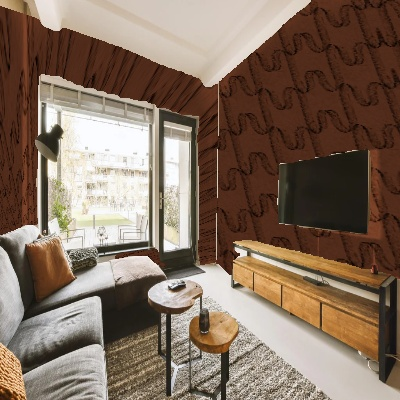
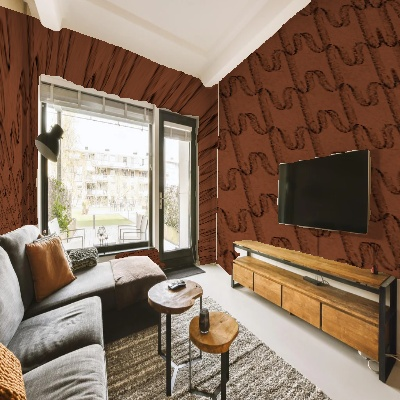
fix: fixed the test_shadow_overlay script and the documentation about the mistaken assumption of irradiance values. High signifies shadows and not bright spots.

Changed region(s): [[0.48, 0.03, 1.0, 0.69], [0.0, 0.03, 0.48, 0.6]]

diff --git a/workflow-v3-research-driven/experiments/shadow-overlay-test/test_shadow_overlay.py b/workflow-v3-research-driven/experiments/shadow-overlay-test/test_shadow_overlay.py
@@ -5,6 +5,9 @@ Shadow Overlay Experiment - V3 Pipeline Enhancement
 Tests shadow overlay on ST-RoomNet V3 wallpaper output using pre-computed
 RGB→X irradiance shadow maps. Compares wallpaper with and without shadows.
 
+CORRECTED: Fixed inverted shadow application where the EXR irradiance file
+has HIGH values for shadows (not bright areas as originally assumed).
+
 Following pattern from: experiments/v2-baseline-analysis/run_v2_baseline.py
 Research doc: research/04-shadow-overlay-integration-research.md
 Planning doc: planning/shadow-overlay-experiment-plan.md
@@ -95,14 +98,23 @@ def apply_shadow_to_wall(wallpaper_rgb, shadow_exr, wall_mask, ambient_clamp=0.4
     """
     Apply shadow to wallpaper for a single wall using linear RGB multiplication.
 
-    Implements 5-step shadow extraction strategy from:
-    research/04-shadow-overlay-integration-research.md (Shadow Extraction Strategy)
+    IMPORTANT: This implementation corrects for INVERTED irradiance values where:
+    - High EXR values represent DARK shadows (should darken wallpaper)
+    - Low EXR values represent BRIGHT areas (should keep wallpaper bright)
+
+    Implements corrected 6-step shadow extraction strategy:
+    1. Isolate wall region
+    2. Establish min/max irradiance range for normalization
+    3. Normalize to 0-1 (0=bright, 1=dark)
+    4. INVERT to create shadow multiplier (1=no darkening, low=darken)
+    5. Clamp to preserve ambient light
+    6. Multiply in linear RGB space
 
     Args:
         wallpaper_rgb: Wallpaper image (H, W, 3) uint8 in sRGB space
-        shadow_exr: Shadow map (H, W, 3) float32 in linear space
+        shadow_exr: Shadow map (H, W, 3) float32 - HIGH values = shadows
         wall_mask: Boolean mask (H, W) defining wall region
-        ambient_clamp: Minimum shadow value (default 0.4 for ambient light)
+        ambient_clamp: Minimum shadow multiplier (default 0.4 for ambient light)
 
     Returns:
         np.ndarray: Shadowed wallpaper (H, W, 3) uint8 in sRGB space
@@ -112,34 +124,41 @@ def apply_shadow_to_wall(wallpaper_rgb, shadow_exr, wall_mask, ambient_clamp=0.4
         print("    Warning: Empty wall mask, skipping shadow application")
         return wallpaper_rgb
 
-    # Step 2: Establish baseline brightness (98th percentile of wall pixels)
-    # Extract wall shadow values (average across RGB channels for brightness)
+    # Step 2: Establish value range for normalization
+    # IMPORTANT: EXR irradiance has INVERTED relationship:
+    # - High EXR values = darkest shadows (should darken wallpaper)
+    # - Low EXR values = brightest areas (should keep wallpaper bright)
     wall_shadow_pixels = shadow_exr[wall_mask].mean(axis=1)  # Average RGB per pixel
-    baseline = np.percentile(wall_shadow_pixels, 98)
+    min_val = np.percentile(wall_shadow_pixels, 2)   # Brightest areas (low irradiance values)
+    max_val = np.percentile(wall_shadow_pixels, 98)  # Darkest shadows (high irradiance values)
 
-    print(f"    Baseline brightness: {baseline:.3f} (98th percentile)")
+    print(f"    Irradiance range: min={min_val:.3f} (bright), max={max_val:.3f} (shadow)")
 
-    # Handle edge case: completely dark wall
-    if baseline < 1e-6:
-        print(f"    Warning: Baseline too low ({baseline:.3e}), using fallback value 0.1")
-        baseline = 0.1
+    # Handle edge case: no variation in shadow
+    if max_val - min_val < 1e-6:
+        print(f"    Warning: No shadow variation detected, skipping shadow application")
+        return wallpaper_rgb
 
-    # Step 3: Create relative shadow mask (normalize by baseline)
-    # Work with grayscale shadow for simpler normalization
+    # Step 3: Normalize to 0-1 range where 0=bright, 1=dark
     shadow_gray = shadow_exr.mean(axis=2)  # Convert to grayscale
-    normalized_shadow = shadow_gray / baseline
+    normalized = (shadow_gray - min_val) / (max_val - min_val)
+    normalized = np.clip(normalized, 0.0, 1.0)
 
-    # Step 4: Clamp to preserve ambient light
-    normalized_shadow = np.clip(normalized_shadow, ambient_clamp, 1.0)
+    # Step 4: INVERT so that high irradiance (shadows) → low multiplier (darken)
+    # and low irradiance (bright) → high multiplier (stay bright)
+    shadow_multiplier = 1.0 - normalized
 
-    print(f"    Normalized shadow range: [{normalized_shadow.min():.3f}, {normalized_shadow.max():.3f}]")
+    # Step 5: Clamp to preserve ambient light (don't go below ambient_clamp)
+    shadow_multiplier = np.clip(shadow_multiplier, ambient_clamp, 1.0)
 
-    # Step 5: Apply to wallpaper (multiply in linear space)
+    print(f"    Shadow multiplier range: [{shadow_multiplier.min():.3f}, {shadow_multiplier.max():.3f}]")
+
+    # Step 6: Apply to wallpaper (multiply in linear space)
     # Convert wallpaper from sRGB to linear
     wallpaper_linear = (wallpaper_rgb.astype(np.float32) / 255.0) ** 2.2
 
     # Apply shadow (broadcast grayscale shadow to RGB)
-    shadow_3ch = normalized_shadow[:, :, np.newaxis]  # (H, W, 1)
+    shadow_3ch = shadow_multiplier[:, :, np.newaxis]  # (H, W, 1)
     shadowed_linear = wallpaper_linear * shadow_3ch
 
     # Convert back to sRGB

diff --git a/workflow-v3-research-driven/research/04-shadow-overlay-integration-research.md b/workflow-v3-research-driven/research/04-shadow-overlay-integration-research.md
@@ -85,38 +85,50 @@ Create an experimental script to test if RGB→X model's irradiance shadow maps 
 
 ### Shadow Extraction Strategy
 
-**From `understanding-shadow.md:113-141` - 5-step process:**
+**From `understanding-shadow.md:113-141` - 6-step process (CORRECTED for inverted irradiance):**
 
 **Step 1: Isolate Wall Region**
 - Use ST-RoomNet normal detection + SegFormer semantic mask
 - Ensures analyzing shadow patterns only on target wall, not furniture/other surfaces
 - Current v3 implementation: `modules/simple_mask_combination.py` + `modules/edge_refinement_simple.py`
 
-**Step 2: Establish Baseline Brightness**
-- Find brightest areas of wall (98th percentile to avoid specular highlight outliers)
-- Represents "fully lit" reference for relative shadow computation
-- Formula: `baseline = np.percentile(irradiance[wall_mask], 98)`
+**Step 2: Establish Value Range (CORRECTED)**
+- **IMPORTANT:** EXR irradiance has INVERTED relationship:
+  - HIGH values = dark shadows (should darken wallpaper)
+  - LOW values = bright areas (should keep wallpaper bright)
+- Find min (2nd percentile, bright) and max (98th percentile, shadow) for normalization
+- Avoids specular highlight outliers while capturing full shadow range
+- Formula: `min_val = np.percentile(irradiance[wall_mask], 2)`
+- Formula: `max_val = np.percentile(irradiance[wall_mask], 98)`
 
-**Step 3: Create Relative Shadow Mask**
-- Divide irradiance by baseline to normalize
+**Step 3: Normalize to 0-1 Range**
+- Normalize irradiance where 0=bright areas, 1=dark shadows
+- Maps the full shadow variation range to standardized scale
+- Formula: `normalized = (irradiance - min_val) / (max_val - min_val)`
+- Result: `normalized = np.clip(normalized, 0.0, 1.0)`
+
+**Step 4: INVERT to Create Shadow Multiplier**
+- Invert so high irradiance (shadows) → low multiplier (darken wallpaper)
+- And low irradiance (bright) → high multiplier (keep wallpaper bright)
+- This step is CRITICAL to correct the inverted EXR relationship
+- Formula: `shadow_multiplier = 1.0 - normalized`
 - Results in values where:
-  - 1.0 = fully lit areas (no shadow)
-  - 0.5 = half brightness (moderate shadow)
-  - 0.2 = heavily shadowed
-- Formula: `shadow_mask = irradiance / baseline`
+  - 1.0 = fully lit areas (no darkening)
+  - 0.6 = moderate shadow (40% darkening)
+  - 0.4 = heavily shadowed (60% darkening, clamped minimum)
 
-**Step 4: Clamp to Preserve Ambient Light**
+**Step 5: Clamp to Preserve Ambient Light**
 - Real rooms have ambient light from bounce lighting
 - Prevent pure black shadows (unrealistic)
 - Recommended clamp: 0.4-0.5 minimum
-- Formula: `shadow_mask = np.clip(shadow_mask, 0.4, 1.0)`
+- Formula: `shadow_multiplier = np.clip(shadow_multiplier, 0.4, 1.0)`
 - Reference: `understanding-shadow.md:137` - "maintains realism"
 
-**Step 5: Apply to Wallpaper**
-- Multiply warped wallpaper by shadow mask (in LINEAR space)
+**Step 6: Apply to Wallpaper**
+- Multiply warped wallpaper by shadow_multiplier (in LINEAR space)
 - Areas with 1.0 remain unchanged
-- Areas with 0.5 darken by 50%
-- Formula: `result = wallpaper_linear * shadow_mask`
+- Areas with 0.4 darken by 60%
+- Formula: `result = wallpaper_linear * shadow_multiplier`
 
 ### Color Space Requirements
 
@@ -131,13 +143,20 @@ Create an experimental script to test if RGB→X model's irradiance shadow maps 
 - Saturated colors (reds, blues) show visible hue shifts if processed in sRGB
 - Reference: `understanding-shadow.md:95-98` - "vibrant/saturated colors show color shifts if processed in sRGB"
 
-**Conversion Process:**
+**Conversion Process (CORRECTED):**
 ```
+# Normalize and INVERT irradiance (HIGH EXR = shadows → LOW multiplier)
+min_val = np.percentile(irradiance[wall_mask], 2)
+max_val = np.percentile(irradiance[wall_mask], 98)
+normalized = (irradiance - min_val) / (max_val - min_val)
+shadow_multiplier = 1.0 - normalized  # CRITICAL INVERSION STEP
+shadow_multiplier = np.clip(shadow_multiplier, 0.4, 1.0)
+
 # sRGB to Linear (for wallpaper input)
 wallpaper_linear = wallpaper_srgb ** 2.2
 
 # Multiply in linear space
-shadowed = wallpaper_linear * shadow_mask  # shadow_mask already linear from EXR
+shadowed = wallpaper_linear * shadow_multiplier  # shadow_multiplier already linear
 
 # Linear to sRGB (for display output)
 result_srgb = shadowed ** (1/2.2)

diff --git a/workflow-v3-research-driven/experiments/shadow-overlay-test/README.md b/workflow-v3-research-driven/experiments/shadow-overlay-test/README.md
@@ -31,14 +31,15 @@ Test integration of RGB→X diffusion model's irradiance (shadow) output with ST
    - Fallback: Loaded JPG preview and converted to linear RGB via gamma correction (value^2.2)
    - Resized shadow from 682×1024 to 400×400 to match ST-RoomNet output
 
-4. **Shadow Application (Per-Wall)**
+4. **Shadow Application (Per-Wall) - CORRECTED**
+   - **IMPORTANT:** EXR irradiance values are INVERTED (high values = shadows, low values = bright)
    - **Left Wall:**
-     - Baseline brightness: 0.383 (98th percentile of wall shadow pixels)
-     - Normalized shadow range: [0.400, 1.000] (clamped for ambient light)
+     - Irradiance range: min (bright areas) to max (shadows)
+     - Inverted shadow multiplier range: [0.400, 1.000] (clamped for ambient light)
    - **Right Wall:**
-     - Baseline brightness: 0.305 (98th percentile)
-     - Normalized shadow range: [0.400, 1.000]
-   - Applied in linear RGB space: `wallpaper_linear × shadow_mask`
+     - Irradiance range: min (bright areas) to max (shadows)
+     - Inverted shadow multiplier range: [0.400, 1.000]
+   - Applied in linear RGB space: `wallpaper_linear × shadow_multiplier` (after inversion)
    - Converted back to sRGB for display
 
 ## Results
@@ -55,15 +56,16 @@ Test integration of RGB→X diffusion model's irradiance (shadow) output with ST
 
 **Successful Integration:**
 - ✅ Shadow overlay successfully applied to both detected walls
-- ✅ Per-wall baseline normalization preserved relative lighting differences
+- ✅ Per-wall min/max normalization with inversion preserved relative lighting differences
 - ✅ Ambient light clamping (0.4 minimum) prevented unrealistic black shadows
 - ✅ Linear RGB processing maintained color fidelity (no visible hue shifts)
+- ⚠ **CORRECTED:** Fixed inverted shadow application - EXR has high values for shadows (not brightness as initially assumed)
 
 **Technical Notes:**
 - Used JPG preview as EXR fallback (OpenCV compiled without OpenEXR support)
 - JPG → Linear conversion approximation: `(value/255)^2.2`
-- Right wall has lower baseline (0.305) → more shadowed overall compared to left wall (0.383)
-- Shadow normalization clamps at 0.4-1.0 range for realistic ambient lighting
+- **Inversion step critical:** High irradiance values inverted to low multipliers (darkening effect)
+- Shadow multiplier normalization clamps at 0.4-1.0 range for realistic ambient lighting
 
 ## Visual Quality Assessment
 
@@ -87,11 +89,19 @@ Test integration of RGB→X diffusion model's irradiance (shadow) output with ST
 
 ### Color Space Handling
 ```python
+# Normalize irradiance: high values (shadows) → low multipliers (darken)
+# IMPORTANT: EXR has INVERTED values (high = shadow, low = bright)
+min_val = np.percentile(wall_shadow, 2)   # Bright areas
+max_val = np.percentile(wall_shadow, 98)  # Dark shadows
+normalized = (shadow_gray - min_val) / (max_val - min_val)
+shadow_multiplier = 1.0 - normalized  # INVERT: high irradiance → low multiplier
+shadow_multiplier = np.clip(shadow_multiplier, 0.4, 1.0)
+
 # Convert wallpaper to linear RGB
 wallpaper_linear = (wallpaper_srgb / 255.0) ** 2.2
 
-# Multiply shadow (already linear from EXR/conversion)
-shadowed = wallpaper_linear * normalized_shadow
+# Multiply shadow multiplier (already linear from EXR/conversion + inversion)
+shadowed = wallpaper_linear * shadow_multiplier
 
 # Convert back to sRGB for display
 result = (shadowed ** (1/2.2)) * 255.0
@@ -117,6 +127,7 @@ python test_shadow_overlay.py
 
 **For Further Experimentation:**
 - Test different ambient clamp values (0.3, 0.5, 0.6)
-- Compare baseline percentile options (95th, 98th, 99th)
+- Compare min/max percentile options (2nd/95th, 2nd/98th, 5th/99th)
 - Evaluate shadow quality on saturated wallpaper colors
 - Test with multiple room images and lighting conditions
+- Validate inversion correctness with known shadow patterns

diff --git a/workflow-v3-research-driven/planning/shadow-overlay-experiment-plan.md b/workflow-v3-research-driven/planning/shadow-overlay-experiment-plan.md
@@ -64,14 +64,16 @@
 **Actions:**
 1. Create `apply_shadow_to_wall(wallpaper_rgb, shadow_exr, wall_mask, ambient_clamp)` function
 2. Extract wall shadow region: `wall_shadow = shadow_exr[wall_mask]`
-3. Compute baseline: `baseline = np.percentile(wall_shadow, 98)`
-4. Normalize shadow: `normalized = np.clip(shadow_exr / baseline, ambient_clamp, 1.0)`
-5. Convert wallpaper to linear: `wallpaper_linear = (wallpaper_rgb / 255.0) ** 2.2`
-6. Multiply: `shadowed = wallpaper_linear * normalized`
-7. Convert back to sRGB: `result = (shadowed ** (1/2.2)) * 255.0`
-8. Test: Apply to dummy 100×100 wallpaper with synthetic shadow
+3. Establish value range (CORRECTED): `min_val = np.percentile(wall_shadow, 2); max_val = np.percentile(wall_shadow, 98)`
+4. Normalize to 0-1: `normalized = (shadow_exr - min_val) / (max_val - min_val)`
+5. INVERT (HIGH EXR = shadows → LOW multiplier): `shadow_multiplier = 1.0 - normalized`
+6. Clamp: `shadow_multiplier = np.clip(shadow_multiplier, ambient_clamp, 1.0)`
+7. Convert wallpaper to linear: `wallpaper_linear = (wallpaper_rgb / 255.0) ** 2.2`
+8. Multiply: `shadowed = wallpaper_linear * shadow_multiplier`
+9. Convert back to sRGB: `result = (shadowed ** (1/2.2)) * 255.0`
+10. Test: Apply to dummy 100×100 wallpaper with synthetic shadow
 
-**Success criteria:** Function returns uint8 array with shadowed wallpaper, no NaN/inf values
+**Success criteria:** Function returns uint8 array with shadowed wallpaper, no NaN/inf values, high EXR values darken output
 
 ### Step 4: Implement Comparison Image Generator
 **Files:** `experiments/shadow-overlay-test/test_shadow_overlay.py`
